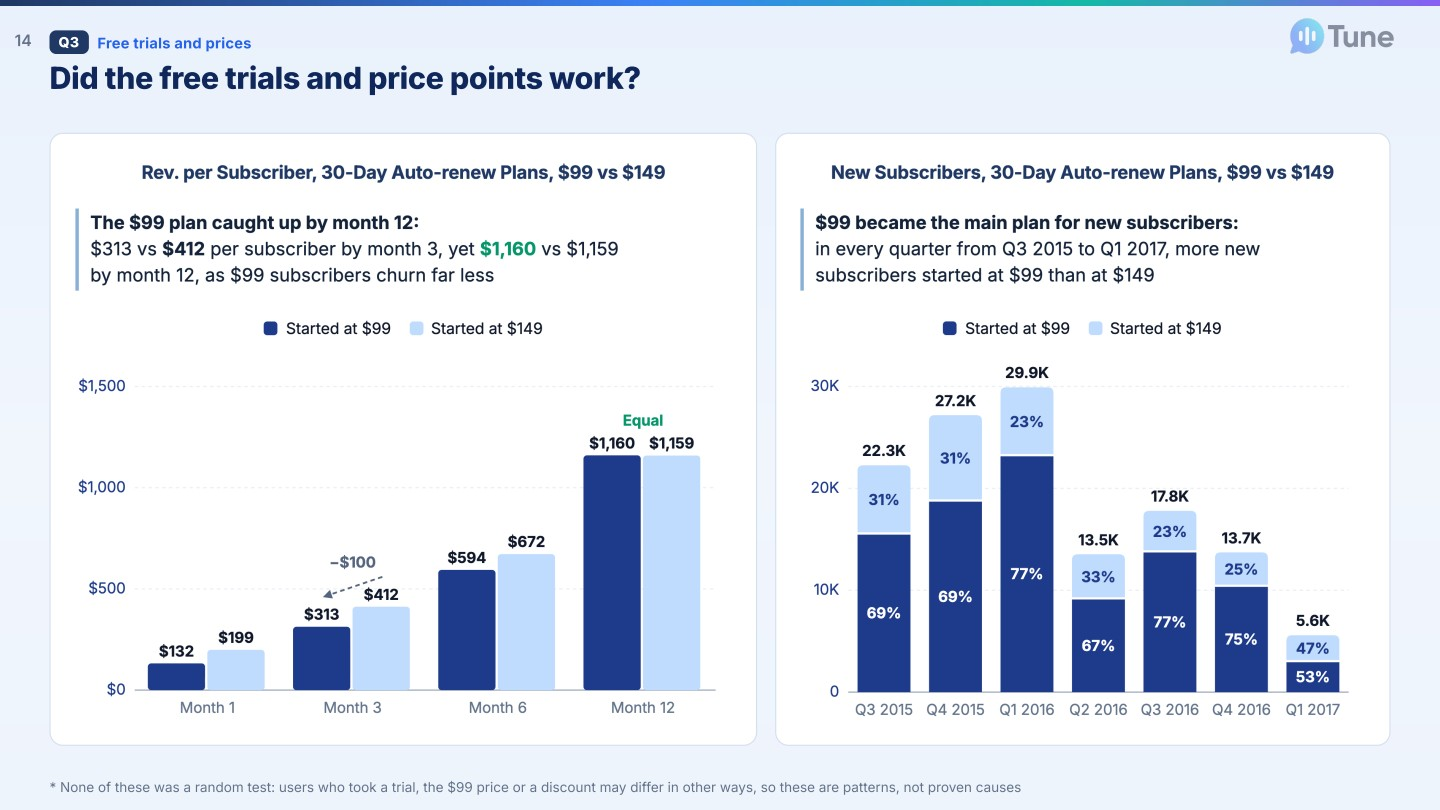
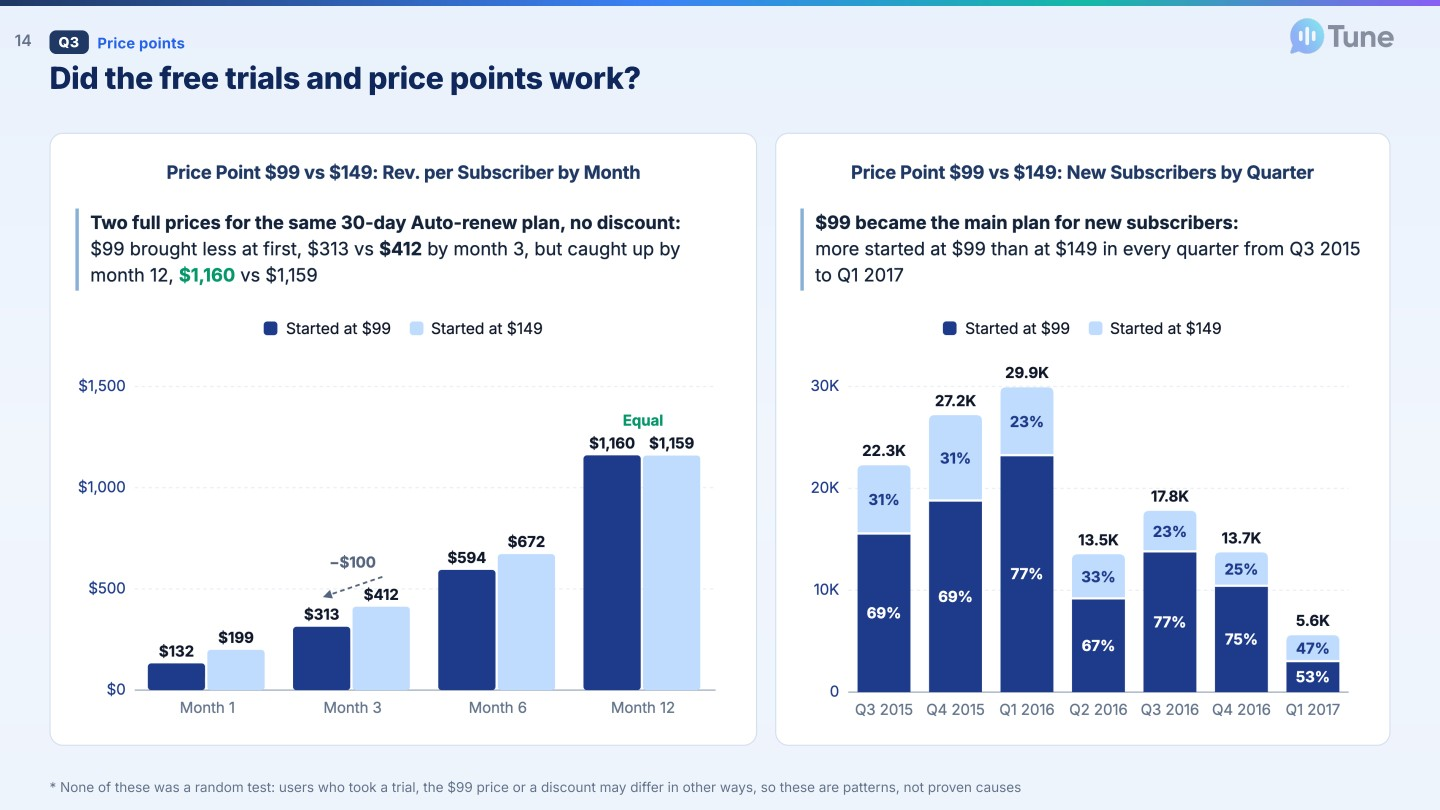
Deck: slides 13-14 titles start with Discount or Price point $99 vs $149, short bullets that say what each is

diff --git a/index.html b/index.html
@@ -3732,7 +3732,7 @@ const ISSUES = { raw_users: "U1-U11: age 0 or out of range, gender missing, regi
   raw_churn_labels: "L4-L7: labels don't match a naive 'due in March' population" };
 
 // ---------------- tabs ----------------
-const DECKV = "1118fc12";  // change on every deck update so browsers load the new slide images, not a cached copy
+const DECKV = "1118q3v";  // change on every deck update so browsers load the new slide images, not a cached copy
 const GROUPS = {
   intro: [["overview", "Overview"]],
   p1: [["dq", "1a · Data quality"], ["lineage", "1b.1 · Clean layer & data model"], ["explorer", "1b.2 · Explorer & SQL"], ["churn", "1c · Churn check"]],
